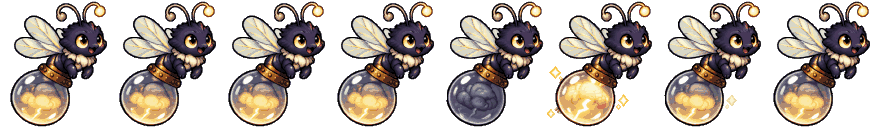
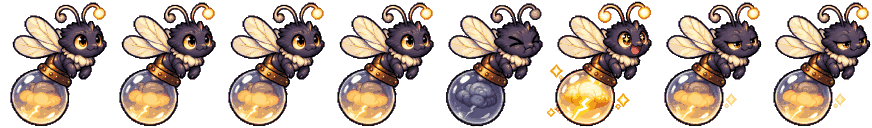
P5-72: give Fireflit an acting face in its idle

diff --git a/plugin/content/CREDITS.md b/plugin/content/CREDITS.md
@@ -63,7 +63,7 @@ noted (decision 0011). Add a row whenever you add or change an asset.
 | `modsters/tidecrown/desktop.png` | @victor-aguilars (drawn with Claude Code) | CC BY 4.0 | Tidecrown, a moonlit tide spirit, from @victor-aguilars' reference (P5-70, decision 0045); its wingtips flap, the moon in its chest glows with an aura, sparkles glint on its crown and wingtips, and it floats and blinks |
 | `modsters/dewdle/desktop.png` | @victor-aguilars (drawn with Claude Code) | CC BY 4.0 | Dewdle, a dewdrop fairy under a leaf hat; it squashes, springs up and drips, from the drawn poses in @victor-aguilars' reference (P5-72, decision 0045) |
 | `modsters/antlet/desktop.png` | @victor-aguilars (drawn with Claude Code) | CC BY 4.0 | Antlet, an ant with pine-branch antlers; it lifts its head and the antlers tip it over, from the drawn poses in @victor-aguilars' reference (P5-72, decision 0045) |
-| `modsters/fireflit/desktop.png` | @victor-aguilars (drawn with Claude Code) | CC BY 4.0 | Fireflit, a firefly with a storm in a glass bulb; the bulb dims and flashes, from the drawn poses in @victor-aguilars' reference (P5-72, decision 0045) |
+| `modsters/fireflit/desktop.png` | @victor-aguilars (drawn with Claude Code) | CC BY 4.0 | Fireflit, a firefly with a storm in a glass bulb; it strains as the bulb dims, then grins at the flash, from the drawn poses in @victor-aguilars' reference (P5-72, decision 0045) |
 | `modsters/hushwren/desktop.png` | @victor-aguilars (drawn with Claude Code) | CC BY 4.0 | Hushwren, a frosted-glass ghost wren; it sings in silence and a misty note follows, from the drawn poses in @victor-aguilars' reference (P5-72, decision 0045) |
 | `modsters/dartling/desktop.png` | @victor-aguilars (drawn with Claude Code) | CC BY 4.0 | Dartling, a tiny dragon built like a dragonfly; it puffs up and blows a small puff of smoke, from the drawn poses in @victor-aguilars' reference (P5-72, decision 0045) |
 | `modsters/otterfall/desktop.png` | @victor-aguilars (drawn with Claude Code) | CC BY 4.0 | Otterfall, a polite river creature with a water dish in its head; it bows and spills a waterfall, from the drawn poses in @victor-aguilars' reference (P5-72, decision 0045) |
